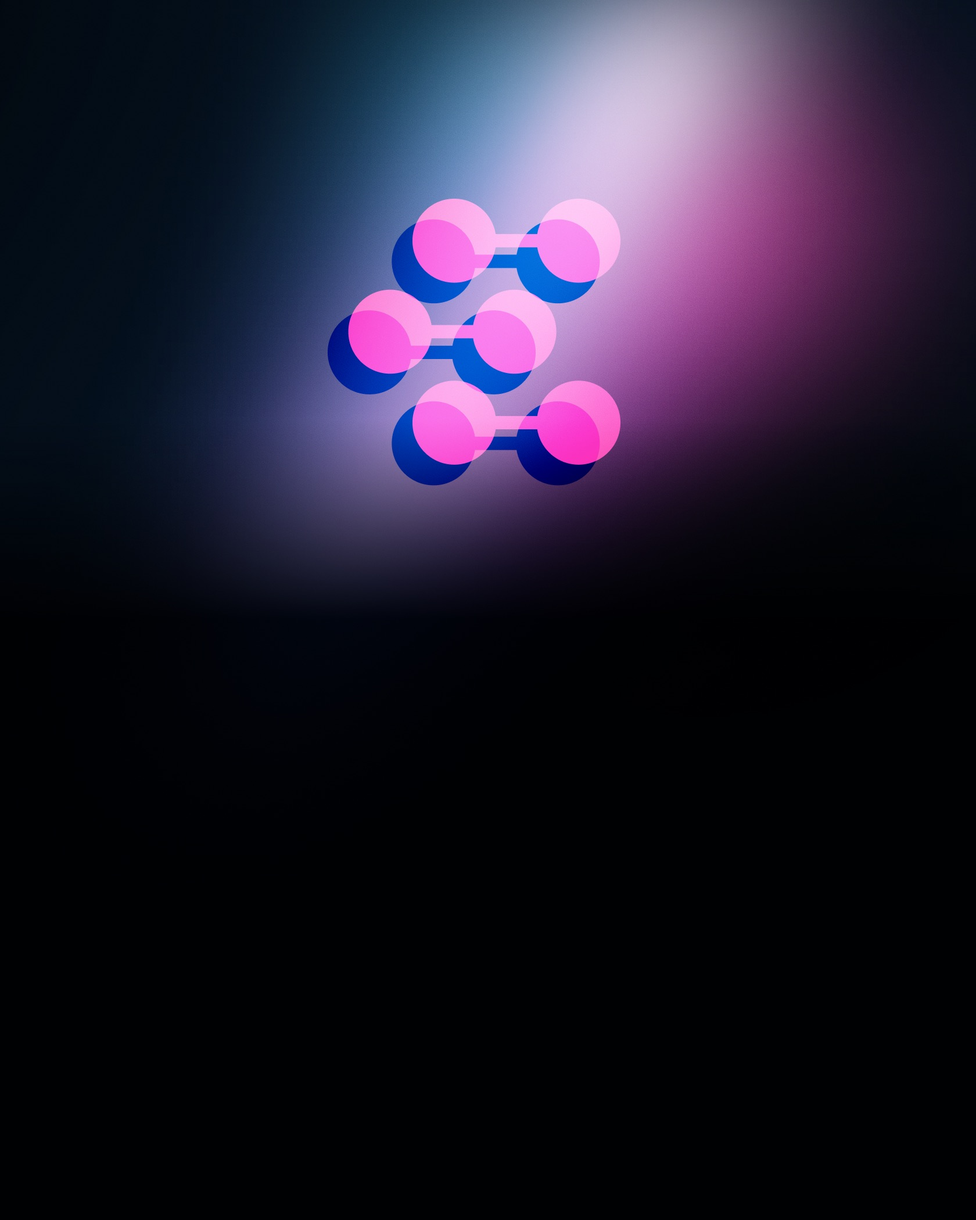
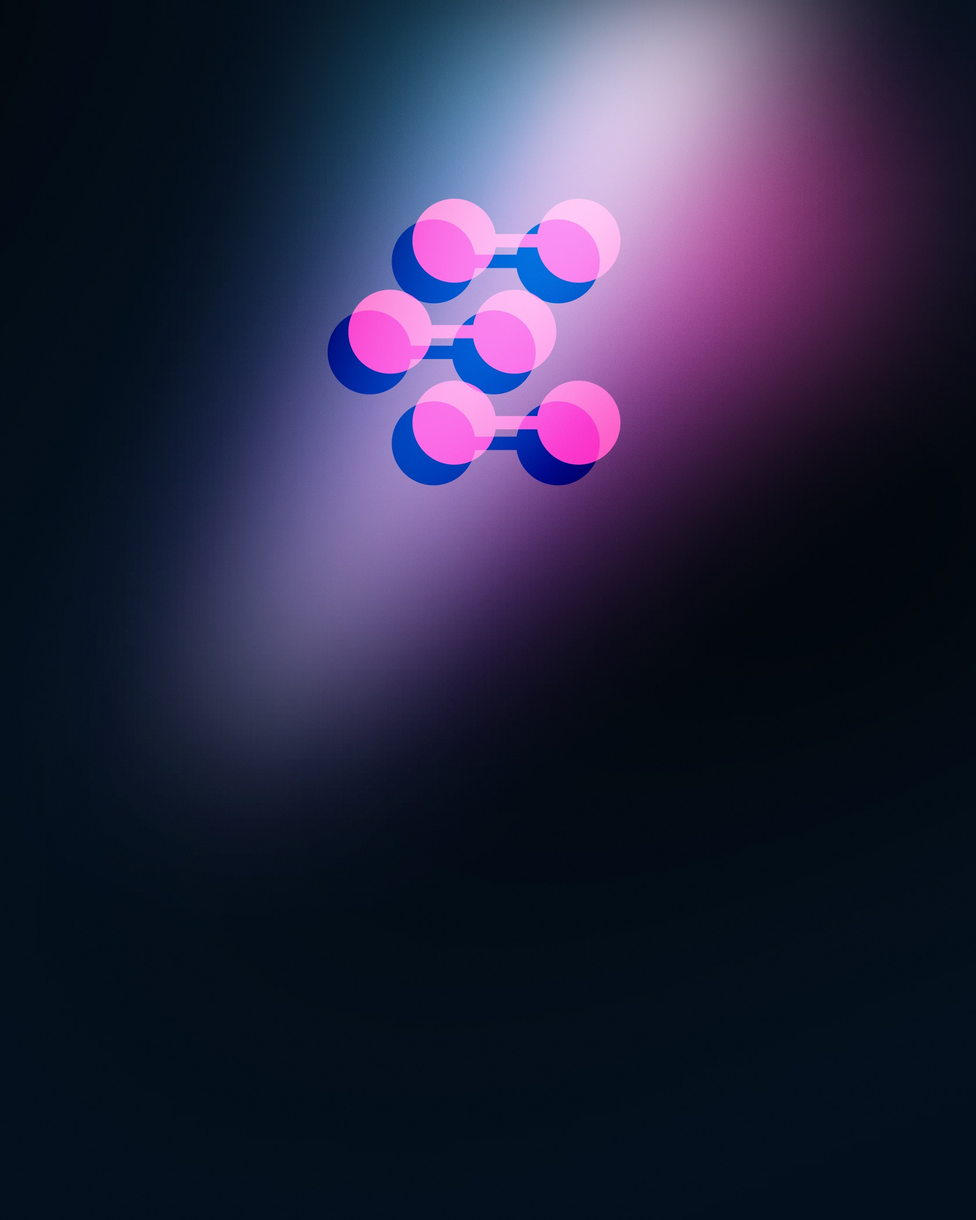
Мобильная версия по обновлённым макетам, навигация на десктопе по сетке
- Мобильный масштаб по ширине экрана (ширина / 320): логотипы встают по сетке
  на всю ширину и на iPhone SE (раньше масштаб был по высоте и всё ужималось).
  Первый экран — высота экрана; на низких экранах он не короче 480 px макета,
  а контент подтягивается к полосам навигации до 40 px.
- Блок партнёра BetBoom по центру под навигацией на всех слайдах.
- Градиент поверх KV — обычное наложение без multiply, в CSS, привязан к низу
  первого экрана; фоны «Рейтинга» и «Премии и форума» перерендерены без него.
- Убрана кнопка кабинета в мобильной шапке.
- «Квизмас»: описание на мобильном и десктопе, новые позиции, сдвиг видео;
  «Премия и форум»: описание и новые позиции на мобильном.
- Десктоп: навигация тянется по сетке со 2-й по 13-ю колонку.

Changed region(s): [[0.0, 0.3405, 1.0, 1.0]]

diff --git a/src/hero/hero.css b/src/hero/hero.css
@@ -5,8 +5,9 @@
      .hero-ui     — интерфейс в пикселях макета: весь кадр 1440×900 помещается в экран, а по ширине тянется
                     сетка макета — 14 колонок, поля 60, межколонник 10 (--col — шаг колонки).
                     Шапка привязана к верху, навигация к низу, контент — к центру по высоте.
-   Мобильный (макет 320×700, тот же запрос, что MOBILE_QUERY в index.ts): фон — кадр 320×700 сверху по центру,
-     интерфейс тянется по ширине; шапка сверху, контент и навигация снизу. Без WebGL.
+   Мобильный (макет 320×700 + блок партнёра до 863, тот же запрос, что MOBILE_QUERY в index.ts): всё масштабируется
+     по ширине экрана (логотипы — на всю ширину по сетке). Первый экран = высота экрана: шапка сверху, фон-KV сверху,
+     контент и навигация — от низа первого экрана, под ним блок партнёра. Без WebGL.
    JS выставляет --hero-cover (масштаб фона), --ui-s (масштаб интерфейса), --ui-w/--ui-h (размер интерфейса в px макета).
    ────────────────────────────────────────────────────────────── */
 
@@ -22,6 +23,8 @@
   --ui-h: 900px;
   /* шаг колонки сетки: (ширина − поля 2×60 + межколонник 10) / 14 = 95 при 1440 */
   --col: calc((var(--ui-w) - 110px) / 14);
+  /* высота экрана без панелей браузера (iOS: не прыгает при прокрутке) */
+  --vh: 100vh;
   position: relative;
   height: 100vh;
   height: 100svh;
@@ -33,6 +36,7 @@
   -webkit-font-smoothing: antialiased;
   isolation: isolate;
 }
+@supports (height: 100svh) { .hero { --vh: 100svh; } }
 .hero *, .hero *::before, .hero *::after { box-sizing: border-box; }
 :where(.hero) img { display: block; max-width: none; user-select: none; -webkit-user-drag: none; }
 :where(.hero) a { color: inherit; text-decoration: none; }
@@ -84,6 +88,7 @@
 .hero-shade { pointer-events: none; mix-blend-mode: multiply; }
 .hero-shade--bottom { left: 0; top: 502px; width: 1600px; height: 398px; background: linear-gradient(to top, #04101d 3.694%, rgba(4, 15, 27, 0) 80.607%); }
 .hero-shade--soft { left: 0; top: 322px; width: 1600px; height: 661px; background: linear-gradient(to top, rgba(3, 21, 40, .7) 3.694%, rgba(10, 83, 162, 0) 80.607%); }
+.hero-shade--mob { display: none; }
 
 [data-glow] { pointer-events: none; }
 
@@ -141,23 +146,22 @@ img.pblur-layer, video.pblur-layer { width: 100%; height: 100%; object-fit: cove
 .hc-social--vk { right: 60px; }
 .hc-social:hover img { transform: translateY(-3px); }
 
-/* мобильная шапка: «Меню» и кабинет — на десктопе скрыты */
-.hc-menu, .hc-account { display: none; }
+/* мобильная шапка: «Меню» — на десктопе скрыта */
+.hc-menu { display: none; }
 .hc-menu { position: absolute; left: 21px; top: 33px; width: 100px; height: 44px; padding: 0; margin: 0; border: 0; background: none; color: #fff; font: inherit; text-align: left; cursor: pointer; }
 .hc-menu i { position: absolute; height: 1px; background: #fce39c; transition: left .4s cubic-bezier(.22, 1, .36, 1), width .4s cubic-bezier(.22, 1, .36, 1); }
 .hc-menu i:first-child { left: -.5px; top: 20.5px; width: 31px; }
 .hc-menu i:nth-child(2) { left: 16.5px; top: 27.5px; width: 14px; }
 .hc-menu:active i:nth-child(2) { left: -.5px; width: 31px; }
 .hc-menu span { position: absolute; left: 41px; top: 13px; font-size: 16px; line-height: 22px; font-weight: 400; white-space: nowrap; }
-.hc-account { position: absolute; right: 20px; top: 33px; width: 44px; height: 44px; background: url("./squircle.svg") 0 0 / 100% 100% no-repeat; }
-.hc-account img { position: absolute; left: 14.5px; top: 14.5px; width: 15px; height: 15.9px; }
 
-/* ── навигация с прогрессом: по центру, низ — 96px от низа кадра ── */
-.hero-nav { position: absolute; left: calc(50% - 460px); top: calc(100% - 96px); display: flex; gap: 30px; }
+/* ── навигация с прогрессом: по сетке со 2-й по 13-ю колонку (156…1285 при 1440), низ — 96px от низа кадра ── */
+.hero-nav { position: absolute; left: calc(61px + var(--col)); width: calc(var(--col) * 12 - 11px); top: calc(100% - 96px); display: flex; gap: 36.81px; }
 .hero-nav__item {
   --p: 0;
   position: relative;
-  width: 160px;
+  flex: 1 1 0;
+  min-width: 0;
   padding: 0 0 6px;
   margin: 0;
   border: 0;
@@ -257,8 +261,10 @@ img.pblur-layer, video.pblur-layer { width: 100%; height: 100%; object-fit: cove
 /* видео 1600×900 от левого края кадра 1440 (как в макете), увеличено на 2%, чтобы сдвиг магнитом не открывал края */
 .kviz-video { left: 80px; top: 0; width: 1600px; height: 900px; will-change: transform; }
 .kviz-video video { position: absolute; inset: 0; width: 100%; height: 100%; object-fit: cover; transform: scale(1.02); }
-.kviz-logo { --x: -2px; --y: 426px; }
+.kviz-tag { --y: 204px; }
+.kviz-logo { --x: -2px; --y: 344px; }
 .kviz-logo img { width: 534px; height: 75.37px; }
+.kviz-lead { --x: -2px; --y: 450px; width: 433px; font-size: 20px; line-height: 30px; }
 
 /* 4. Рейтинг */
 .stripe { pointer-events: none; }
@@ -325,8 +331,18 @@ img.pblur-layer, video.pblur-layer { width: 100%; height: 100%; object-fit: cove
 .hero [data-anim="lines"] .line-mask { padding-bottom: .08em; margin-bottom: -.08em; }
 .hero .nobr { white-space: nowrap; }
 
-/* ── мобильная раскладка: макет 320×700 ── */
+/* ── мобильная раскладка: макет 320×700, ниже — блок партнёра (кадр до 863) ── */
 @media (max-aspect-ratio: 4/5) {
+  /* --ui-s = ширина экрана / 320. Первый экран (в px макета) — высота экрана, но не меньше 480: иначе на низких
+     экранах контент залез бы под шапку (тогда первый экран чуть длиннее экрана). На таких экранах контент ещё
+     подтягивается к навигации до 40px макета (--squeeze). Под первым экраном — 163px макета на блок партнёра. */
+  .hero {
+    --fold: max(calc(var(--vh) / var(--ui-s)), 480px);
+    --squeeze: clamp(0px, calc(520px - var(--vh) / var(--ui-s)), 40px);
+    height: calc((var(--fold) + 163px) * var(--ui-s));
+    min-height: 0;
+  }
+
   /* фон: кадр 320×700 сверху по центру, в масштабе интерфейса; под ним и по бокам — заливка кадра */
   .hero-canvas {
     left: 50%;
@@ -337,40 +353,53 @@ img.pblur-layer, video.pblur-layer { width: 100%; height: 100%; object-fit: cove
     transform-origin: 50% 0;
     background: none;
   }
-  .hero-canvas::before { content: ""; position: absolute; left: -200px; right: -200px; top: 0; bottom: -500px; background: var(--mob-fill, #030f1c); }
-  [data-slide="rating"] { --mob-fill: #00030a; }
-  [data-slide="duo"] { --mob-fill: #000103; }
+  .hero-canvas::before { content: ""; position: absolute; left: -200px; right: -200px; top: 0; bottom: -1500px; background: var(--mob-fill, #030f1c); }
+  [data-slide="rating"] { --mob-fill: #0d1529; }
 
   /* видео — по мобильным кадрам */
   .award-video { inset: auto; left: -258.73px; top: -2px; width: 676.39px; height: 380.87px; }
   .forum-video { left: -155px; top: 0; width: 664px; height: 374px; }
-  .kviz-video { left: -347px; top: -69px; width: 756px; height: 425px; }
+  .kviz-video { left: -308px; top: -69px; width: 756px; height: 425px; }
   .kviz-video video { transform: none; }
 
-  /* затемнение снизу (multiply) от y=240 до низа экрана */
-  .hero-shade--bottom { left: -200px; top: 240px; width: 720px; height: 960px; background: linear-gradient(to bottom, rgba(3, 15, 28, 0) 0, #030f1c 115px); }
-  [data-slide="award"] .hero-shade--bottom { background: linear-gradient(to bottom, rgba(3, 15, 28, 0) 37.5px, #030f1c 143.1px); }
+  /* градиент поверх KV (обычное наложение, цвет уходит в ноль): в макете — от y=240 (у «Рейтинга» от 160) до низа;
+     привязан к низу первого экрана, как и контент, — на низких экранах закрывает KV раньше, текст остаётся читаемым */
+  .hero-shade--mob {
+    display: block;
+    left: -200px;
+    width: 720px;
+    top: calc(var(--fold) - 460px + var(--squeeze));
+    height: 2000px;
+    mix-blend-mode: normal;
+    background: linear-gradient(to bottom, rgba(3, 15, 28, 0) 0, #030f1c 115px);
+  }
+  [data-slide="award"] .hero-shade--mob { background: linear-gradient(to bottom, rgba(3, 15, 28, 0) 37.6px, #030f1c 143.2px); }
+  [data-slide="kvizmass"] .hero-shade--mob { background: linear-gradient(to bottom, rgba(3, 15, 28, 0) 0, #030f1c 82.8px); }
+  [data-slide="rating"] .hero-shade--mob { top: calc(var(--fold) - 540px + var(--squeeze)); background: linear-gradient(to bottom, rgba(3, 15, 28, 0) 0, #041f3e 194.4px); }
 
   /* «Рейтинг» и «Премия и форум» — готовые рендеры мобильных кадров вместо WebGL и слоёв с наложением */
   .mob-bg { display: block; left: -120px; top: 0; width: 560px; height: 700px; }
-  .gl-layer, .stripe, [data-glow], .hero-shade--soft, .stripes-light, .duo-bg, .duo-logo { display: none !important; }
+  .gl-layer, .stripe, [data-glow], .hero-shade--bottom, .hero-shade--soft, .stripes-light, .duo-bg, .duo-logo { display: none !important; }
 
-  /* прелоадер: знак того же размера, что в мобильном макете */
-  .hero-preloader__anim { inset: auto; left: 50%; top: 50%; width: 1600px; height: 900px; transform: translate(-50%, -50%) scale(var(--hero-cover)); }
+  /* прелоадер: знак того же размера, что в мобильном макете, по центру видимого экрана */
+  .hero-preloader__anim { inset: auto; left: 50%; top: calc(var(--vh) / 2); width: 1600px; height: 900px; transform: translate(-50%, -50%) scale(var(--hero-cover)); }
 
-  /* шапка */
-  .hc-partner, .hc-mark, .hc-contact, .hc-social { display: none; }
-  .hc-menu, .hc-account { display: block; }
+  /* шапка: только «Меню»; партнёр — по центру под навигацией (y 748 в кадре 863) */
+  .hc-mark, .hc-contact, .hc-social { display: none; }
+  .hc-menu { display: block; }
+  .hc-partner { left: calc(50% - 68px); top: calc(100% - 115px); text-align: center; }
 
   /* навигация: 5 полос на всю ширину, без подписей; полоса прогресса — y 649 (поля по 16px — чтобы попадать пальцем) */
-  .hero-nav { left: 21px; right: 20px; top: calc(100% - 67px); gap: 9.1px; }
+  .hero-nav { left: 21px; right: 20px; width: auto; top: calc(100% - 230px); gap: 9.1px; }
   .hero-nav__item { flex: 1; width: auto; padding: 16px 0; }
   .hero-nav__label { display: none; }
 
-  /* контент — от низа экрана */
-  .hero-content > * { left: calc(20px + var(--mx, 0px)); top: calc(100% - 700px + var(--my, 0px)); }
+  /* контент — от низа первого экрана (кадр 863 = первый экран 700 + блок партнёра) */
+  .hero-content > * { left: calc(20px + var(--mx, 0px)); top: calc(100% - 863px + var(--my, 0px) + var(--squeeze)); }
 
   .hero-tag { --my: 350px; font-size: 16px; line-height: 18.8px; }
+  .kviz-tag { --my: 273px; }
+  .duo-tag { --my: 278px; }
   .hero-tag span:first-child { min-width: 86px; padding: 3.9px 12px 1.3px 12.3px; }
   .hero-tag span:last-child { min-width: 153px; margin-top: -7px; padding: 5.7px 12px 2.5px 12.3px; }
 
@@ -386,16 +415,17 @@ img.pblur-layer, video.pblur-layer { width: 100%; height: 100%; object-fit: cove
   .forum-logo { --mx: 1px; --my: 434.01px; }
   .forum-logo img { width: 279px; height: 44.4px; }
 
-  .kviz-logo { --mx: 1px; --my: 436px; }
+  .kviz-logo { --mx: 1px; --my: 356px; }
   .kviz-logo img { width: 279px; height: 39.38px; }
+  .kviz-lead { --mx: 0px; --my: 420px; width: 260px; font-size: 16px; line-height: 20px; }
 
   .rating-logo { --my: 324px; }
   .rating-logo img { width: 280px; height: 42.54px; }
   .rating-lead { --my: 396px; width: 280px; font-size: 16px; line-height: 20px; }
 
-  .duo-title { --my: 437px; }
+  .duo-title { --my: 365px; }
   .duo-title img { width: 280px; height: 33.31px; }
-  .duo-lead { display: none; }
+  .duo-lead { --mx: 0px; --my: 420px; width: 260px; font-size: 16px; line-height: 20px; }
 }
 
 @media (prefers-reduced-motion: reduce) {

diff --git a/index.html b/index.html
@@ -30,6 +30,8 @@
             <video src="hero/award/statuette-1080.mp4" poster="hero/award/poster.jpg" muted playsinline preload="auto" data-hero-video></video>
           </div>
           <i class="hero-shade hero-shade--bottom"></i>
+          <!-- мобильный градиент поверх KV (обычное наложение, привязан к низу первого экрана) -->
+          <i class="hero-shade hero-shade--mob"></i>
         </div>
       </div>
       <div class="hero-ui">
@@ -64,6 +66,8 @@
           <i data-glow="-685 -119 1358.25 1282 300 #821e64 0.3"></i>
           <i data-glow="-517.66 49.58 1076.72 982.91 204.7 #fa3294 0.3"></i>
           <i class="hero-shade hero-shade--bottom"></i>
+          <!-- мобильный градиент поверх KV (обычное наложение, привязан к низу первого экрана) -->
+          <i class="hero-shade hero-shade--mob"></i>
         </div>
       </div>
       <div class="hero-ui">
@@ -91,16 +95,19 @@
             <video src="hero/kvizmass/kvizmas-1080.mp4" poster="hero/kvizmass/poster.jpg" muted playsinline preload="none" data-hero-video data-deferred></video>
           </div>
           <i class="hero-shade hero-shade--bottom"></i>
+          <!-- мобильный градиент поверх KV (обычное наложение, привязан к низу первого экрана) -->
+          <i class="hero-shade hero-shade--mob"></i>
         </div>
       </div>
       <div class="hero-ui">
         <div class="hero-content">
-          <div class="hero-tag" data-anim="tag" style="--tag:#31a8f3">
+          <div class="hero-tag kviz-tag" data-anim="tag" style="--tag:#31a8f3">
             <span>Москва,</span><span>13 декабря 2026</span>
           </div>
           <h2 class="kviz-logo" data-anim="parts">
             <img src="hero/kvizmass/logo-full.png" width="534" height="75.37" alt="MVP Квизмас">
           </h2>
+          <p class="kviz-lead" data-anim="lines">Предновогоднее событие для спортивной, киберспортивной и беттинг-индустрии.</p>
           <a class="hero-btn" href="#kvizmass" data-anim="btn">
             <span class="hero-btn__label">Подробнее</span>
             <svg class="hero-btn__icon" width="13.51" height="11.82" viewBox="0 0 13.5065 11.8182" aria-hidden="true"><circle cx="5.065" cy="1.688" r="1.688"/><circle cx="11.818" cy="1.688" r="1.688"/><g class="hero-btn__dots-mid"><circle cx="1.688" cy="5.909" r="1.688"/><circle cx="8.442" cy="5.909" r="1.688"/></g><circle cx="5.065" cy="10.13" r="1.688"/><circle cx="11.818" cy="10.13" r="1.688"/></svg>
@@ -128,8 +135,10 @@
           <i data-glow="1255 -36 999.09 943 300 #04285e 1 plus-lighter"></i>
           <i data-glow="1378.09 88 792 723 204.7 #164fa4 1 color-dodge"></i>
           <i class="hero-shade hero-shade--soft"></i>
-          <!-- мобильный фон — рендер мобильного кадра из Figma (без WebGL); на десктопе не показывается и не грузится -->
+          <!-- мобильный фон — рендер мобильного кадра из Figma без градиента (без WebGL); на десктопе не показывается и не грузится -->
           <img class="mob-bg" src="hero/rating/bg-mob.jpg" alt="" loading="lazy">
+          <!-- мобильный градиент поверх KV (обычное наложение, привязан к низу первого экрана) -->
+          <i class="hero-shade hero-shade--mob"></i>
         </div>
       </div>
       <i class="stripes-light" data-stripes-light></i>
@@ -164,8 +173,10 @@
             <img class="duo-logo__ray" src="hero/duo/logo-blue-on-ray.jpg" alt="" loading="lazy" data-ray>
           </div>
           <img class="duo-logo duo-logo--pink" src="hero/duo/logo-pink.svg" alt="" loading="lazy" data-magnetic="0.05">
-          <!-- мобильный фон — рендер мобильного кадра из Figma вместе с логотипами (без WebGL) -->
+          <!-- мобильный фон — рендер мобильного кадра из Figma вместе с логотипами, без градиента (без WebGL) -->
           <img class="mob-bg" src="hero/duo/bg-mob.jpg" alt="" loading="lazy">
+          <!-- мобильный градиент поверх KV (обычное наложение, привязан к низу первого экрана) -->
+          <i class="hero-shade hero-shade--mob"></i>
         </div>
       </div>
       <div class="hero-ui">
@@ -176,7 +187,7 @@
           <h2 class="duo-title" data-anim="parts">
             <img src="hero/duo/title.svg" width="542" height="64.49" alt="Премия × форум">
           </h2>
-          <!-- на десктопе — описание, на мобильном вместо него кнопка (как в макетах) -->
+          <!-- кнопка — только на мобильном (как в макетах) -->
           <p class="duo-lead" data-anim="lines">Предновогоднее событие для спортивной, киберспортивной и беттинг-индустрии.</p>
           <a class="hero-btn hero-btn--mob" href="#duo" data-anim="btn">
             <span class="hero-btn__label">Подробнее</span>
@@ -189,13 +200,11 @@
 
   <!-- ─── Общая шапка и навигация (не участвуют в переходе) ─── -->
   <div class="hero-ui hero-chrome">
-    <!-- мобильная шапка: «Меню» и кабинет (на десктопе скрыты); меню открывает сайт, тут только кнопка -->
+    <!-- мобильная шапка: «Меню» (на десктопе скрыта); меню открывает сайт, тут только кнопка -->
     <button class="hc-menu" type="button" aria-label="Меню" data-hero-menu data-intro>
       <i></i><i></i><span>Меню</span>
     </button>
-    <a class="hc-account" href="#account" aria-label="Личный кабинет" data-intro>
-      <img src="hero/common/user.svg" width="15" height="15.9" alt="">
-    </a>
+    <!-- партнёр: на десктопе в шапке слева, на мобильном — по центру под навигацией -->
     <a class="hc-partner" href="https://betboom.ru" target="_blank" rel="noopener" data-intro>
       <img src="hero/common/betboom.svg" width="136" height="23.8" alt="BetBoom">
       <span>официальный партнер</span>

diff --git a/src/hero/index.ts b/src/hero/index.ts
@@ -55,7 +55,7 @@ export function initHero(root: HTMLElement, options: HeroOptions = {}) {
   /* ── масштаб ──
      Десктоп: фон — холст 1600×900 (кадр 1440 из Figma + по 80 запаса с боков) по «cover»;
      интерфейс — кадр 1440×900 целиком влезает в экран, а по ширине тянется сетка (14 колонок, поля 60).
-     Мобильный: кадр 320×700, фон и интерфейс в одном масштабе, интерфейс тоже тянется по ширине. */
+     Мобильный: кадр 320 по ширине экрана, фон и интерфейс в одном масштабе; по высоте — см. hero.css. */
   let cover = 1;
   const mobileQuery = window.matchMedia(MOBILE_QUERY);
   let mobile = mobileQuery.matches;
@@ -64,8 +64,11 @@ export function initHero(root: HTMLElement, options: HeroOptions = {}) {
   const fit = () => {
     if (mobileQuery.matches !== mobile) switchLayout(mobileQuery.matches);
     const w = root.clientWidth;
+    // мобильный — по ширине (логотипы на всю ширину по сетке); высота hero на мобильном зависит от --ui-s (см. hero.css),
+    // поэтому сначала масштаб, потом высота
+    if (mobile) root.style.setProperty('--ui-s', (w / 320).toFixed(4));
     const h = root.clientHeight;
-    const s = mobile ? Math.min(w / 320, h / 700) : Math.min(w / 1440, h / 900);
+    const s = mobile ? w / 320 : Math.min(w / 1440, h / 900);
     cover = mobile ? s : Math.max(w / 1600, h / 900);
     root.style.setProperty('--hero-cover', cover.toFixed(4));
     root.style.setProperty('--ui-s', s.toFixed(4));

diff --git a/README.md b/README.md
@@ -29,7 +29,7 @@ npm run build    # проверка типов + сборка в dist/
 | `src/hero/glow.ts` | светящиеся эллипсы (`data-glow`) — градиентом вместо тяжёлого SVG-блюра |
 | `src/hero/preloader.ts` | Lottie-прелоадер, ждёт шрифты и видео первого слайда |
 | `src/hero/hero.css` | стили: десктоп по макету 1440×900 (сетка 14 колонок), мобильный по макету 320×700 |
-| `src/hero/btn.svg`, `squircle.svg` | форма кнопки и мобильной кнопки кабинета из макета (заливка + внутренние тени) |
+| `src/hero/btn.svg` | форма кнопки из макета (заливка + внутренние тени) |
 | `public/hero/` | ассеты: видео, фото, SVG, шрифты, `preloader.json` |
 
 ## Как подключить в существующий сайт (Vite + `app.ts`)
@@ -51,9 +51,9 @@ API: `initHero(el, options)` возвращает `{ next, prev, goTo(i), pause,
 
 ## Раскладка
 
-- **Десктоп — макет 1440×900.** Интерфейс (`.hero-ui`) масштабируется так, чтобы кадр 1440×900 целиком влез в экран, а по ширине тянется сетка макета: 14 колонок, поля 60, межколонник 10 (`--col` — шаг колонки, 95 при 1440). Контент начинается со 2-й колонки, описание «Рейтинга» — с 9-й, «Связаться с нами» — с 12-й, соцсети прижаты к правому полю, знак и навигация по центру. Шапка привязана к верху, навигация к низу, контент — к центру по высоте.
+- **Десктоп — макет 1440×900.** Интерфейс (`.hero-ui`) масштабируется так, чтобы кадр 1440×900 целиком влез в экран, а по ширине тянется сетка макета: 14 колонок, поля 60, межколонник 10 (`--col` — шаг колонки, 95 при 1440). Контент начинается со 2-й колонки, описание «Рейтинга» — с 9-й, «Связаться с нами» — с 12-й, соцсети прижаты к правому полю, знак по центру, навигация — со 2-й по 13-ю колонку. Шапка привязана к верху, навигация к низу, контент — к центру по высоте.
 - Фон (`.hero-canvas`) — холст 1600×900 по «cover»: это кадр 1440 из Figma плюс по 80 px запаса слева и справа, чтобы на 16:9 и шире не было пустых краёв. Координаты фона в разметке и шейдерах — в пикселях этого холста (x из Figma + 80).
-- **Мобильный — макет 320×700**, включается на вертикальных экранах (`max-aspect-ratio: 4/5`, тот же запрос — `MOBILE_QUERY` в `index.ts`). Кадр фона стоит сверху по центру, шапка («Меню» и кабинет) сверху, тег, логотип, кнопка и полосы навигации — от низа экрана. WebGL на мобильном не создаётся: «Рейтинг» и «Премия и форум» — готовые рендеры мобильных кадров (`hero/rating/bg-mob.jpg`, `hero/duo/bg-mob.jpg`), десктопные слои и текстуры там не грузятся (`loading="lazy"` на скрытых картинках). При повороте планшета в горизонталь шейдеры создаются на лету.
+- **Мобильный — макет 320×700 + блок партнёра (кадр до 863)**, включается на вертикальных экранах (`max-aspect-ratio: 4/5`, тот же запрос — `MOBILE_QUERY` в `index.ts`). Всё масштабируется по ширине экрана (ширина / 320), поэтому логотипы встают по сетке на всю ширину с полями 20. Первый экран — высота экрана: шапка «Меню» и KV сверху, тег, логотип, описание, кнопка и полосы — от низа первого экрана, под ним блок партнёра BetBoom. На низких экранах (iPhone SE) первый экран не короче 480 px макета, а контент подтягивается к полосам до 40 px макета — так он не залезает под шапку. Градиент поверх KV — обычное наложение (без multiply), тоже привязан к низу первого экрана. WebGL на мобильном не создаётся: «Рейтинг» и «Премия и форум» — готовые рендеры мобильных кадров (`hero/rating/bg-mob.jpg`, `hero/duo/bg-mob.jpg`), десктопные слои и текстуры там не грузятся (`loading="lazy"` на скрытых картинках). При повороте планшета в горизонталь шейдеры создаются на лету.
 - Кнопка «Меню» (`[data-hero-menu]`) только разметка — меню открывает сайт.
 
 ## Заметки
